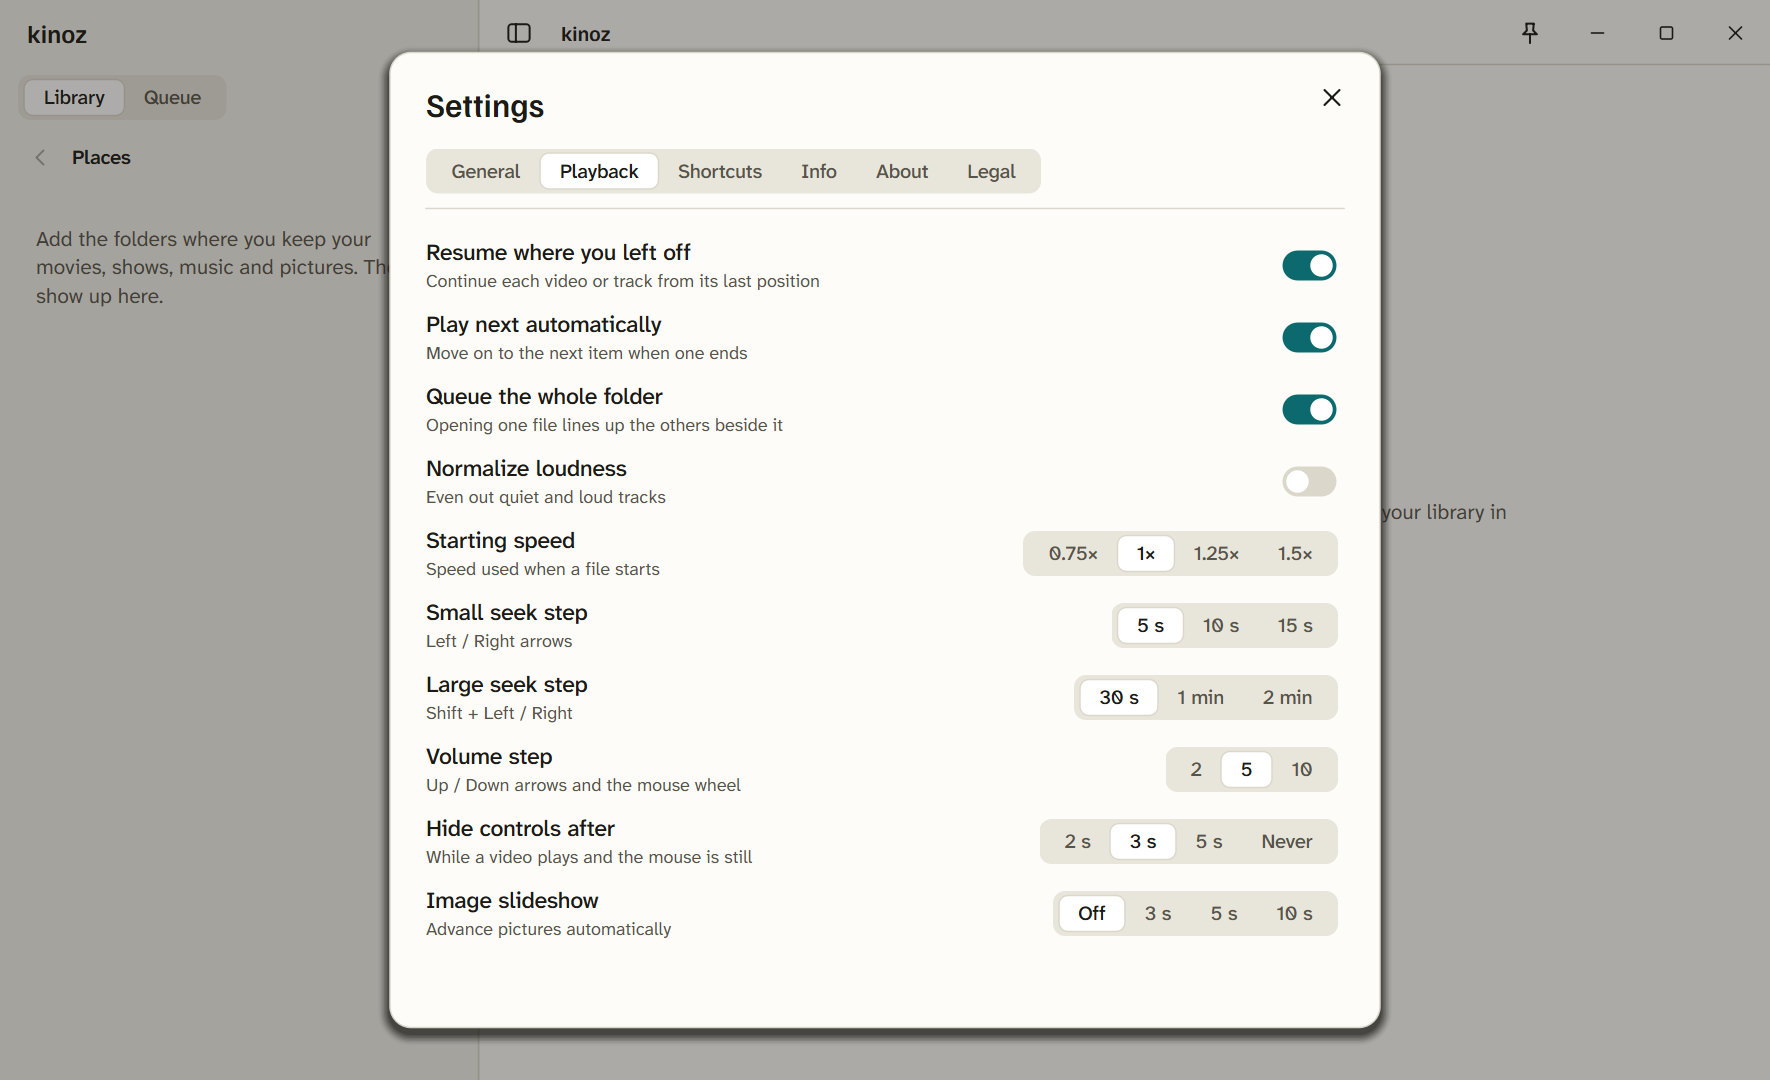
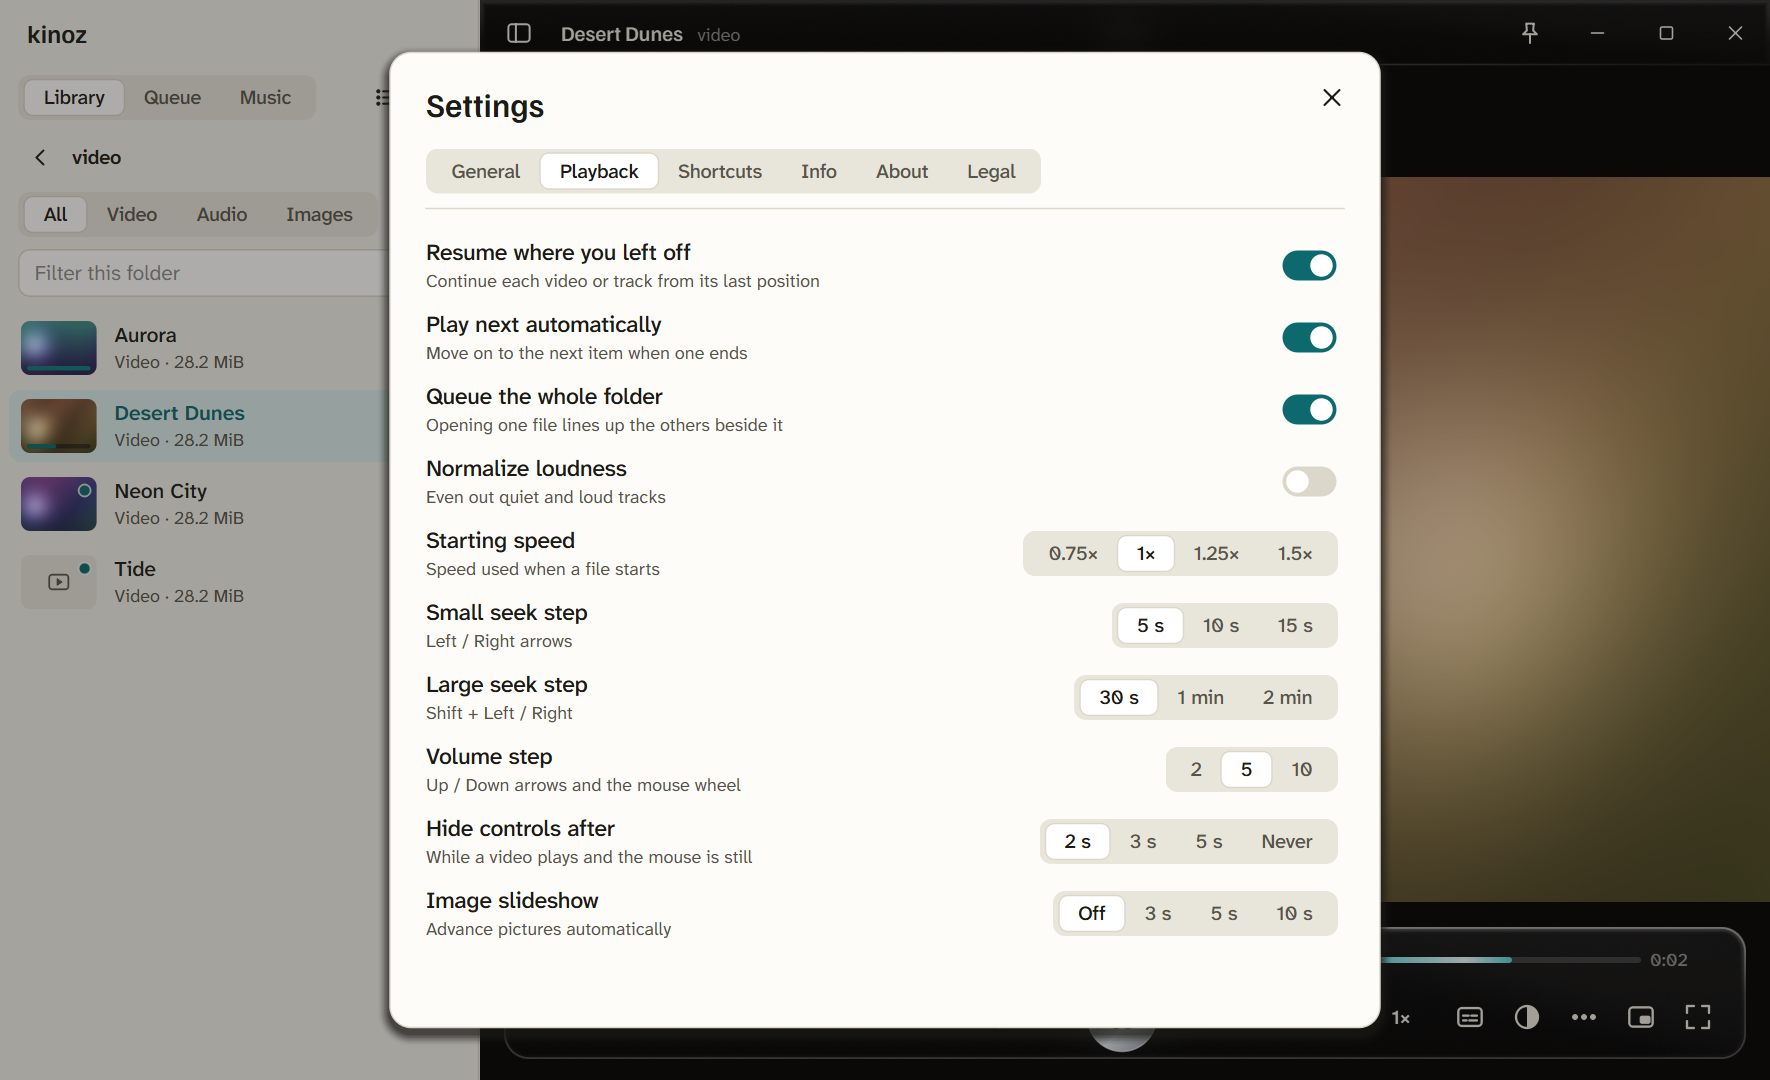
docs/visuals: refresh all screenshots and hero, README for new features, release checklist and CI visuals check; 0.1.3

diff --git a/src/ui/MainWindow.cpp b/src/ui/MainWindow.cpp
@@ -1511,7 +1511,13 @@ void MainWindow::runShots(const QString& dir) {
     auto page = [tabsOf](int i) { if (auto* t = tabsOf()) { t->setCurrent(i); emit t->currentChanged(i); } };
     struct S { int wait; std::function<void()> fn; };
     auto steps = std::make_shared<QVector<S>>();
-    steps->push_back({1500, [this] { Theme::i().setMode(Theme::Mode::Dark); }});
+    steps->push_back({1200, [this] {                                     // a populated library for the home pictures (when demo media is present)
+        const QString videoDir = QFileInfo(m_ctl->path()).absolutePath();
+        const QString musicDir = QDir(videoDir + "/../music").absolutePath();
+        if (!QDir(musicDir).exists()) return;
+        m_side->addPlace(videoDir); m_side->addPlace(musicDir); m_side->navigate(videoDir); setSidebarOpen(true, false);
+    }});
+    steps->push_back({800, [this] { Theme::i().setMode(Theme::Mode::Dark); }});
     steps->push_back({500, [snap] { snap("home-dark"); }});
     steps->push_back({100, [this] { Theme::i().setMode(Theme::Mode::Light); }});
     steps->push_back({500, [snap] { snap("home-light"); }});
@@ -1532,6 +1538,43 @@ void MainWindow::runShots(const QString& dir) {
     steps->push_back({100, [this] { for (auto* s : findChildren<Sheet*>()) s->closeSheet(); }});
     steps->push_back({700, [this] { doAction("palette"); }});
     steps->push_back({500, [snap] { snap("palette-dark"); }});
+    // ---- skimming marks, music, playlists, queue (needs demo media: <demo>/video/*.avi and <demo>/music/...) ----
+    {
+        auto vids = std::make_shared<QStringList>();
+        auto musicDirP = std::make_shared<QString>();
+        steps->push_back({100, [this, vids, musicDirP] {
+            doAction("escape"); Theme::i().setMode(Theme::Mode::Light); setSidebarOpen(true, false);
+            const QString videoDir = QFileInfo(m_ctl->path()).absolutePath();
+            *musicDirP = QDir(videoDir + "/../music").absolutePath();
+            if (!QDir(*musicDirP).exists()) { musicDirP->clear(); return; }           // no demo media: only the basic shots
+            for (const QFileInfo& fi : QDir(videoDir).entryInfoList({"*.avi"}, QDir::Files, QDir::Name)) *vids << fi.absoluteFilePath();
+            m_side->addPlace(videoDir); m_side->addPlace(*musicDirP); m_side->navigate(videoDir);
+            if (vids->size() >= 4) {
+                m_ctl->toggleMark(vids->at(1), PlayerController::MarkKeep);
+                m_ctl->toggleMark(vids->at(2), PlayerController::MarkReject);
+                m_ctl->markSeen(vids->at(0), 0.45);
+                m_ctl->markSeen(vids->at(3), 1.0);
+            }
+        }});
+        steps->push_back({1500, [snap, musicDirP] { if (!musicDirP->isEmpty()) snap("library-marks-light"); }});
+        steps->push_back({100, [this, musicDirP] { if (!musicDirP->isEmpty()) Theme::i().setMode(Theme::Mode::Dark); }});
+        steps->push_back({500, [snap, musicDirP] { if (!musicDirP->isEmpty()) snap("library-marks-dark"); }});
+        steps->push_back({100, [this, musicDirP] { if (!musicDirP->isEmpty()) { Theme::i().setMode(Theme::Mode::Light); m_side->showTab(2); } }});
+        steps->push_back({3500, [snap, musicDirP] { if (!musicDirP->isEmpty()) snap("music-artists-light"); }});
+        steps->push_back({100, [this, musicDirP] { if (!musicDirP->isEmpty()) m_side->musicDrill(QStringLiteral("Mira Lowe"), QStringLiteral("Night Drive")); }});
+        steps->push_back({500, [snap, musicDirP] { if (!musicDirP->isEmpty()) snap("music-album-light"); }});
+        steps->push_back({100, [this, musicDirP] {
+            if (musicDirP->isEmpty()) return;
+            QStringList l;
+            for (const QString& a : {"Mira Lowe/Night Drive/01 - Headlights.wav", "The Quiet Hours/Long Way Home/02 - Porch Lights.wav", "Mira Lowe/Soft Light/03 - Linen.wav", "The Quiet Hours/Small Rooms/01 - Radiator.wav"}) l << *musicDirP + "/" + a;
+            Playlists::save(QStringLiteral("Evening mix"), l);
+            Playlists::save(QStringLiteral("Road trip"), l.mid(0, 2));
+            m_side->showPlaylists();
+        }});
+        steps->push_back({500, [snap, musicDirP] { if (!musicDirP->isEmpty()) snap("playlists-light"); }});
+        steps->push_back({100, [this, vids, musicDirP] { if (musicDirP->isEmpty()) return; if (!vids->isEmpty()) m_ctl->setQueue(*vids, vids->first()); m_side->showQueue(true); }});
+        steps->push_back({900, [snap, musicDirP] { if (!musicDirP->isEmpty()) snap("queue-light"); }});
+    }
     steps->push_back({100, [] { QApplication::quit(); }});
     auto idx = std::make_shared<int>(0);
     auto tick = std::make_shared<std::function<void()>>();

diff --git a/src/ui/MusicView.cpp b/src/ui/MusicView.cpp
@@ -44,6 +44,8 @@ MusicView::MusicView(PlayerController* ctl, MusicIndex* idx, QWidget* parent) : 
     rebuild();
 }
 
+void MusicView::drill(const QString& artist, const QString& album) { m_playlist.clear(); m_seg->setCurrent(0); m_artist = artist; m_album = album; rebuild(); }
+
 void MusicView::showPlaylists() { m_artist.clear(); m_album.clear(); m_playlist.clear(); m_seg->setCurrent(3); rebuild(); }
 
 void MusicView::resizeEvent(QResizeEvent*) {

diff --git a/src/ui/MusicView.h b/src/ui/MusicView.h
@@ -15,6 +15,7 @@ public:
     MusicView(PlayerController* ctl, MusicIndex* idx, QWidget* parent = nullptr);
     void showPlaylists();                  // jump to the Playlists list (e.g. right after saving one)
     void refresh() { rebuild(); }
+    void drill(const QString& artist, const QString& album);    // jump straight to an artist / album (used for screenshots)
     void keepScrolled() {}
 signals:
     void toast(const QString&);

diff --git a/src/ui/Sidebar.cpp b/src/ui/Sidebar.cpp
@@ -319,6 +319,7 @@ void Sidebar::showTab(int tab) {
 }
 
 void Sidebar::showPlaylists() { showTab(2); m_music->showPlaylists(); }
+void Sidebar::musicDrill(const QString& artist, const QString& album) { showTab(2); m_music->drill(artist, album); }
 void Sidebar::refreshMusic() { m_music->refresh(); }
 
 void Sidebar::applyGrid(bool g) {

diff --git a/src/ui/Sidebar.h b/src/ui/Sidebar.h
@@ -57,6 +57,7 @@ public:
     void showQueue(bool q);
     void showTab(int tab);                  // 0 library, 1 queue, 2 music
     void showPlaylists();
+    void musicDrill(const QString& artist, const QString& album);
     void refreshMusic();
     void navigate(const QString& folder);
     void refreshFolder();

diff --git a/README.md b/README.md
@@ -38,9 +38,43 @@ It plays almost anything with no codec packs, because the engine underneath is l
 </table>
 <p align="center"><sub>First-run screens, rendered by the app itself. <code>Ctrl+D</code> switches theme, no restart needed.</sub></p>
 
+<table>
+<tr>
+<td width="50%" align="center">
+<sub>Skim fast: keep, reject, watched progress</sub><br><br>
+<img src="assets/screenshots/library-marks-light.png" alt="Library with a keep mark, a reject mark, watched-progress bars and unseen dots" width="100%">
+</td>
+<td width="50%" align="center">
+<sub>Music: artists, albums, songs, playlists</sub><br><br>
+<img src="assets/screenshots/music-album-light.png" alt="Music tab drilled into an album" width="100%">
+</td>
+</tr>
+</table>
+<p align="center"><sub><code>Y</code> keeps a file, <code>N</code> marks it to reject, <code>U</code> jumps to the next one you haven't seen, <code>1</code>-<code>9</code> jump to 10%-90%, <code>Delete</code> sends the file to the Recycle Bin after asking. Clicking through files or spamming Next opens only the last one.</sub></p>
+
 <details>
-<summary>More screenshots: command palette, Settings, About</summary>
+<summary>More screenshots: playlists, queue, setup, command palette, Settings, About</summary>
 <br>
+
+<p align="center">
+  <img src="assets/screenshots/playlists-light.png" alt="Saved playlists" width="720">
+  <br><sub>Saved playlists are plain <code>.m3u8</code> files in the data folder. Save the queue from the Queue tab or <code>Ctrl+K</code>.</sub>
+</p>
+
+<p align="center">
+  <img src="assets/screenshots/queue-light.png" alt="The queue with the save-as-playlist button" width="720">
+  <br><sub>The queue: drag to reorder, save it as a playlist, clear it.</sub>
+</p>
+
+<p align="center">
+  <img src="assets/screenshots/setup-maintenance-light.png" alt="kinoz setup: Update, Repair, Remove" width="720">
+  <br><sub>The Windows setup is drawn by kinoz itself: Install, Update, Repair (the Doctor), and Remove with an optional delete-all-my-data switch.</sub>
+</p>
+
+<p align="center">
+  <img src="assets/screenshots/setup-doctor-dark.png" alt="The Doctor checking an installation" width="720">
+  <br><sub>The Doctor checks files, shortcuts, right-click entries, settings and disk space, and fixes what it can.</sub>
+</p>
 
 <p align="center">
   <img src="assets/screenshots/palette-dark.png" alt="The Ctrl+K command palette" width="720">
@@ -115,8 +149,13 @@ Each file has a `.sha256` next to it. The in-app updater (optional) only install
 |---|---|
 | Every kind of media | MKV, MP4, AVI, WebM, HEVC, FLAC, MP3, JPG, PNG, WebP, GIF and many more, with SRT and ASS subtitles. No codec packs. |
 | A library that stays out of the way | Folders, thumbnails (cached on disk), list or grid, type filter, search, sort, queue, resume position per file, recent items. |
+| Fast skimming | Click through files or spam Next and only the last one opens (measured: 150 clicks, 2 files opened, UI never frozen more than 25 ms). Keep or reject files with `Y` / `N`, jump with `1`-`9`, see what you have already watched, and delete rejects to the Recycle Bin in one go. |
+| Music library | Artists, Albums, Songs and Playlists, read from your folders' tags once and cached. Saved playlists are plain `.m3u8` files; `.m3u`, `.m3u8` and `.pls` open as a queue. |
+| Windows media overlay | The now-playing card in the volume flyout and on the lock screen, with play, pause, next, previous and seeking. |
+| Default player | One button in Settings (and `Ctrl+K`) registers kinoz with Windows and opens its Default apps page. |
+| Setup that looks after itself | A setup window drawn by kinoz: verifies its files, rolls back on failure, repairs with the Doctor, removes everything (optionally your data too) in one switch. Safe mode starts automatically after two abnormal exits. |
 | `Ctrl+K` command palette | Find any file or command from the keyboard. |
-| Seek-bar frame preview | Hover the timeline to see the frame you are about to jump to. |
+| Seek-bar frame preview | Hover the timeline to see the frame you are about to jump to; it is served from a background-built strip, so it never waits. |
 | Playback tools | Speed with pitch correction, frame step, A-B loop, sleep timer, aspect ratio, audio and subtitle delay, track menus. |
 | Sound | 10-band equalizer with presets, loudness normalizer, output-device picker. |
 | Picture | Brightness, contrast, saturation, gamma and hue, live. |
@@ -160,6 +199,9 @@ The full list is in **Settings → Shortcuts**, and you can add your own in `key
 | `Ctrl+B` / `Ctrl+F` | Previous / next | `Ctrl+E` / `Ctrl+J` | Equalizer / adjust picture |
 | `Ctrl+H` / `Ctrl+T` | Shuffle / repeat | `Ctrl+D` | Switch theme |
 | `Ctrl+Shift+S` | Save this frame as an image | `Ctrl+,` | Settings |
+| `1` ... `9` | Jump to 10% ... 90%, `0` to the start | `` ` `` | Show / hide the library (also `Tab`) |
+| `Y` / `N` | Keep / mark to reject | `U` | Next file I haven't seen |
+| `Delete` | Move this file to the Recycle Bin (asks first) | | |
 
 On an image: mouse wheel or `=` / `-` zooms, drag pans, `R` rotates, `0` fits to the window.
 

diff --git a/docs/RELEASING.md b/docs/RELEASING.md
@@ -1,0 +1,18 @@
+# Releasing kinoz
+
+Every release ships fresh visuals. This is a rule, not a nicety: the repository pictures must match the app people download. CI enforces it (the `visuals` job fails a `v*` tag if `assets/screenshots` and `assets/readme/hero.png` did not change since the previous tag).
+
+## Checklist
+
+1. **Code and tests**
+   - `.\scripts\build.ps1`
+   - `KINOZ_SILENT=1 KINOZ_OFFSCREEN=1 kinoz --selftest <a video>` and `kinoz --bench <a video>` (see docs/PERFORMANCE.md).
+2. **Visual assets (never skip)**
+   - `.\scripts\refresh-visuals.ps1` regenerates every screenshot, silently and off-screen, from demo media it generates itself (no third-party content): main window, Settings pages, About, palette, library marks, Music, playlists, queue, and every setup page.
+   - `.\scripts\make-hero.ps1` rebuilds `assets/readme/hero.png` from them.
+   - Look at the pictures. If a new feature has no picture yet, add a step to `MainWindow::runShots` (screens) or `Installer.cpp` (`--installer-shots`).
+   - Update the README (features table, screenshots, shortcuts) and `CHANGELOG.md` for everything new.
+3. **Version**: bump `CMakeLists.txt`, `packaging/installer.iss`, `resources/app.rc`, `.github/workflows/build.yml` (`APP_VERSION`) and the top `CHANGELOG.md` heading.
+4. **Build the installer**: `.\scripts\release.ps1` (builds, refreshes the visuals, packs the payload, compiles Setup, writes the `.sha256`).
+5. **Commit, push, wait for CI green on all three platforms**, then tag `vX.Y.Z` and push the tag. The release job attaches the Windows installer, the macOS dmg and the Linux AppImage with checksums.
+6. Check the release page lists all six files.

diff --git a/CHANGELOG.md b/CHANGELOG.md
@@ -2,6 +2,10 @@
 
 All notable changes. Dates are release dates.
 
+## 0.1.3 — fresh visuals and release checks
+- Every screenshot and the README banner are regenerated from the current build (library marks, Music, playlists, queue, all setup pages, Settings), using generated demo media. README updated for skimming, music, playlists, the media overlay, setup and the new shortcuts.
+- Releasing now always refreshes the visuals: `scripts/refresh-visuals.ps1`, `scripts/make-hero.ps1` (run by `scripts/release.ps1`), a checklist in docs/RELEASING.md, and a CI check that fails a release tag if the images did not change since the previous release.
+
 ## 0.1.2 — fast skimming, music library, playlists, media overlay
 **Stability**
 - Crash-loop protection: if kinoz ends abnormally twice in a row (crash, driver reset, power cut) it starts in safe mode: software decoding, no glass effect, taskbar-friendly fullscreen, with a notice. Settings can switch it all back.
